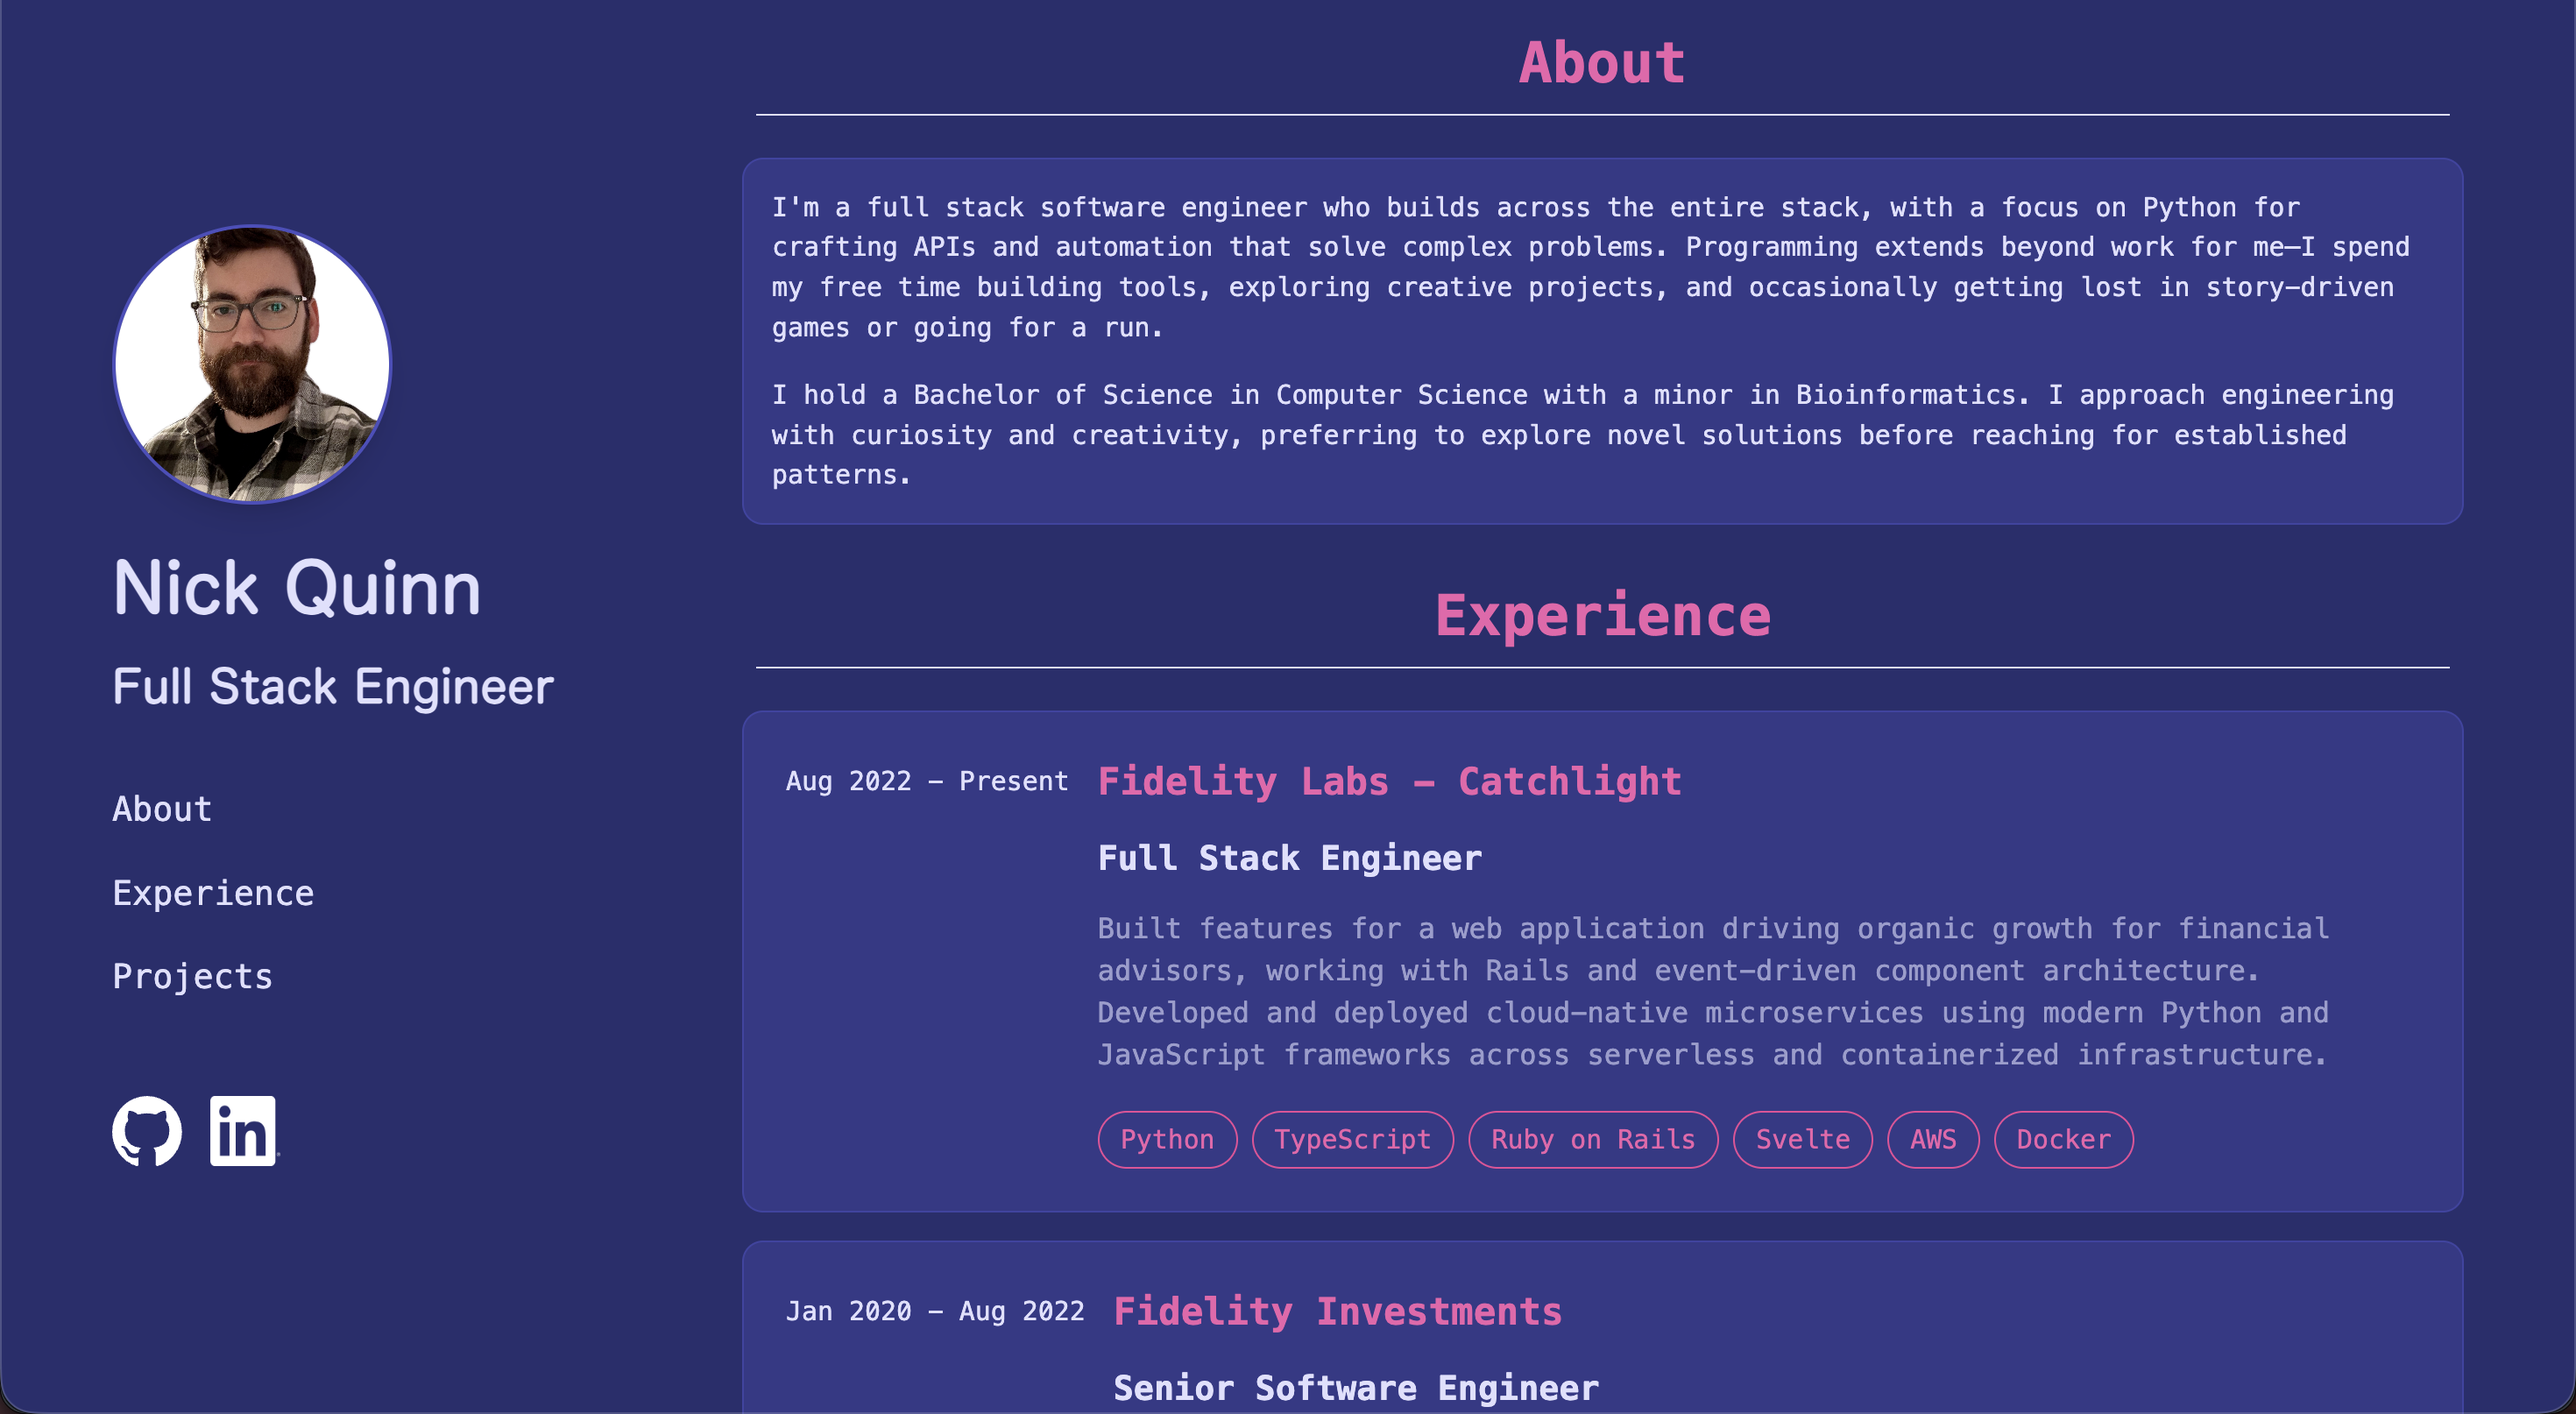
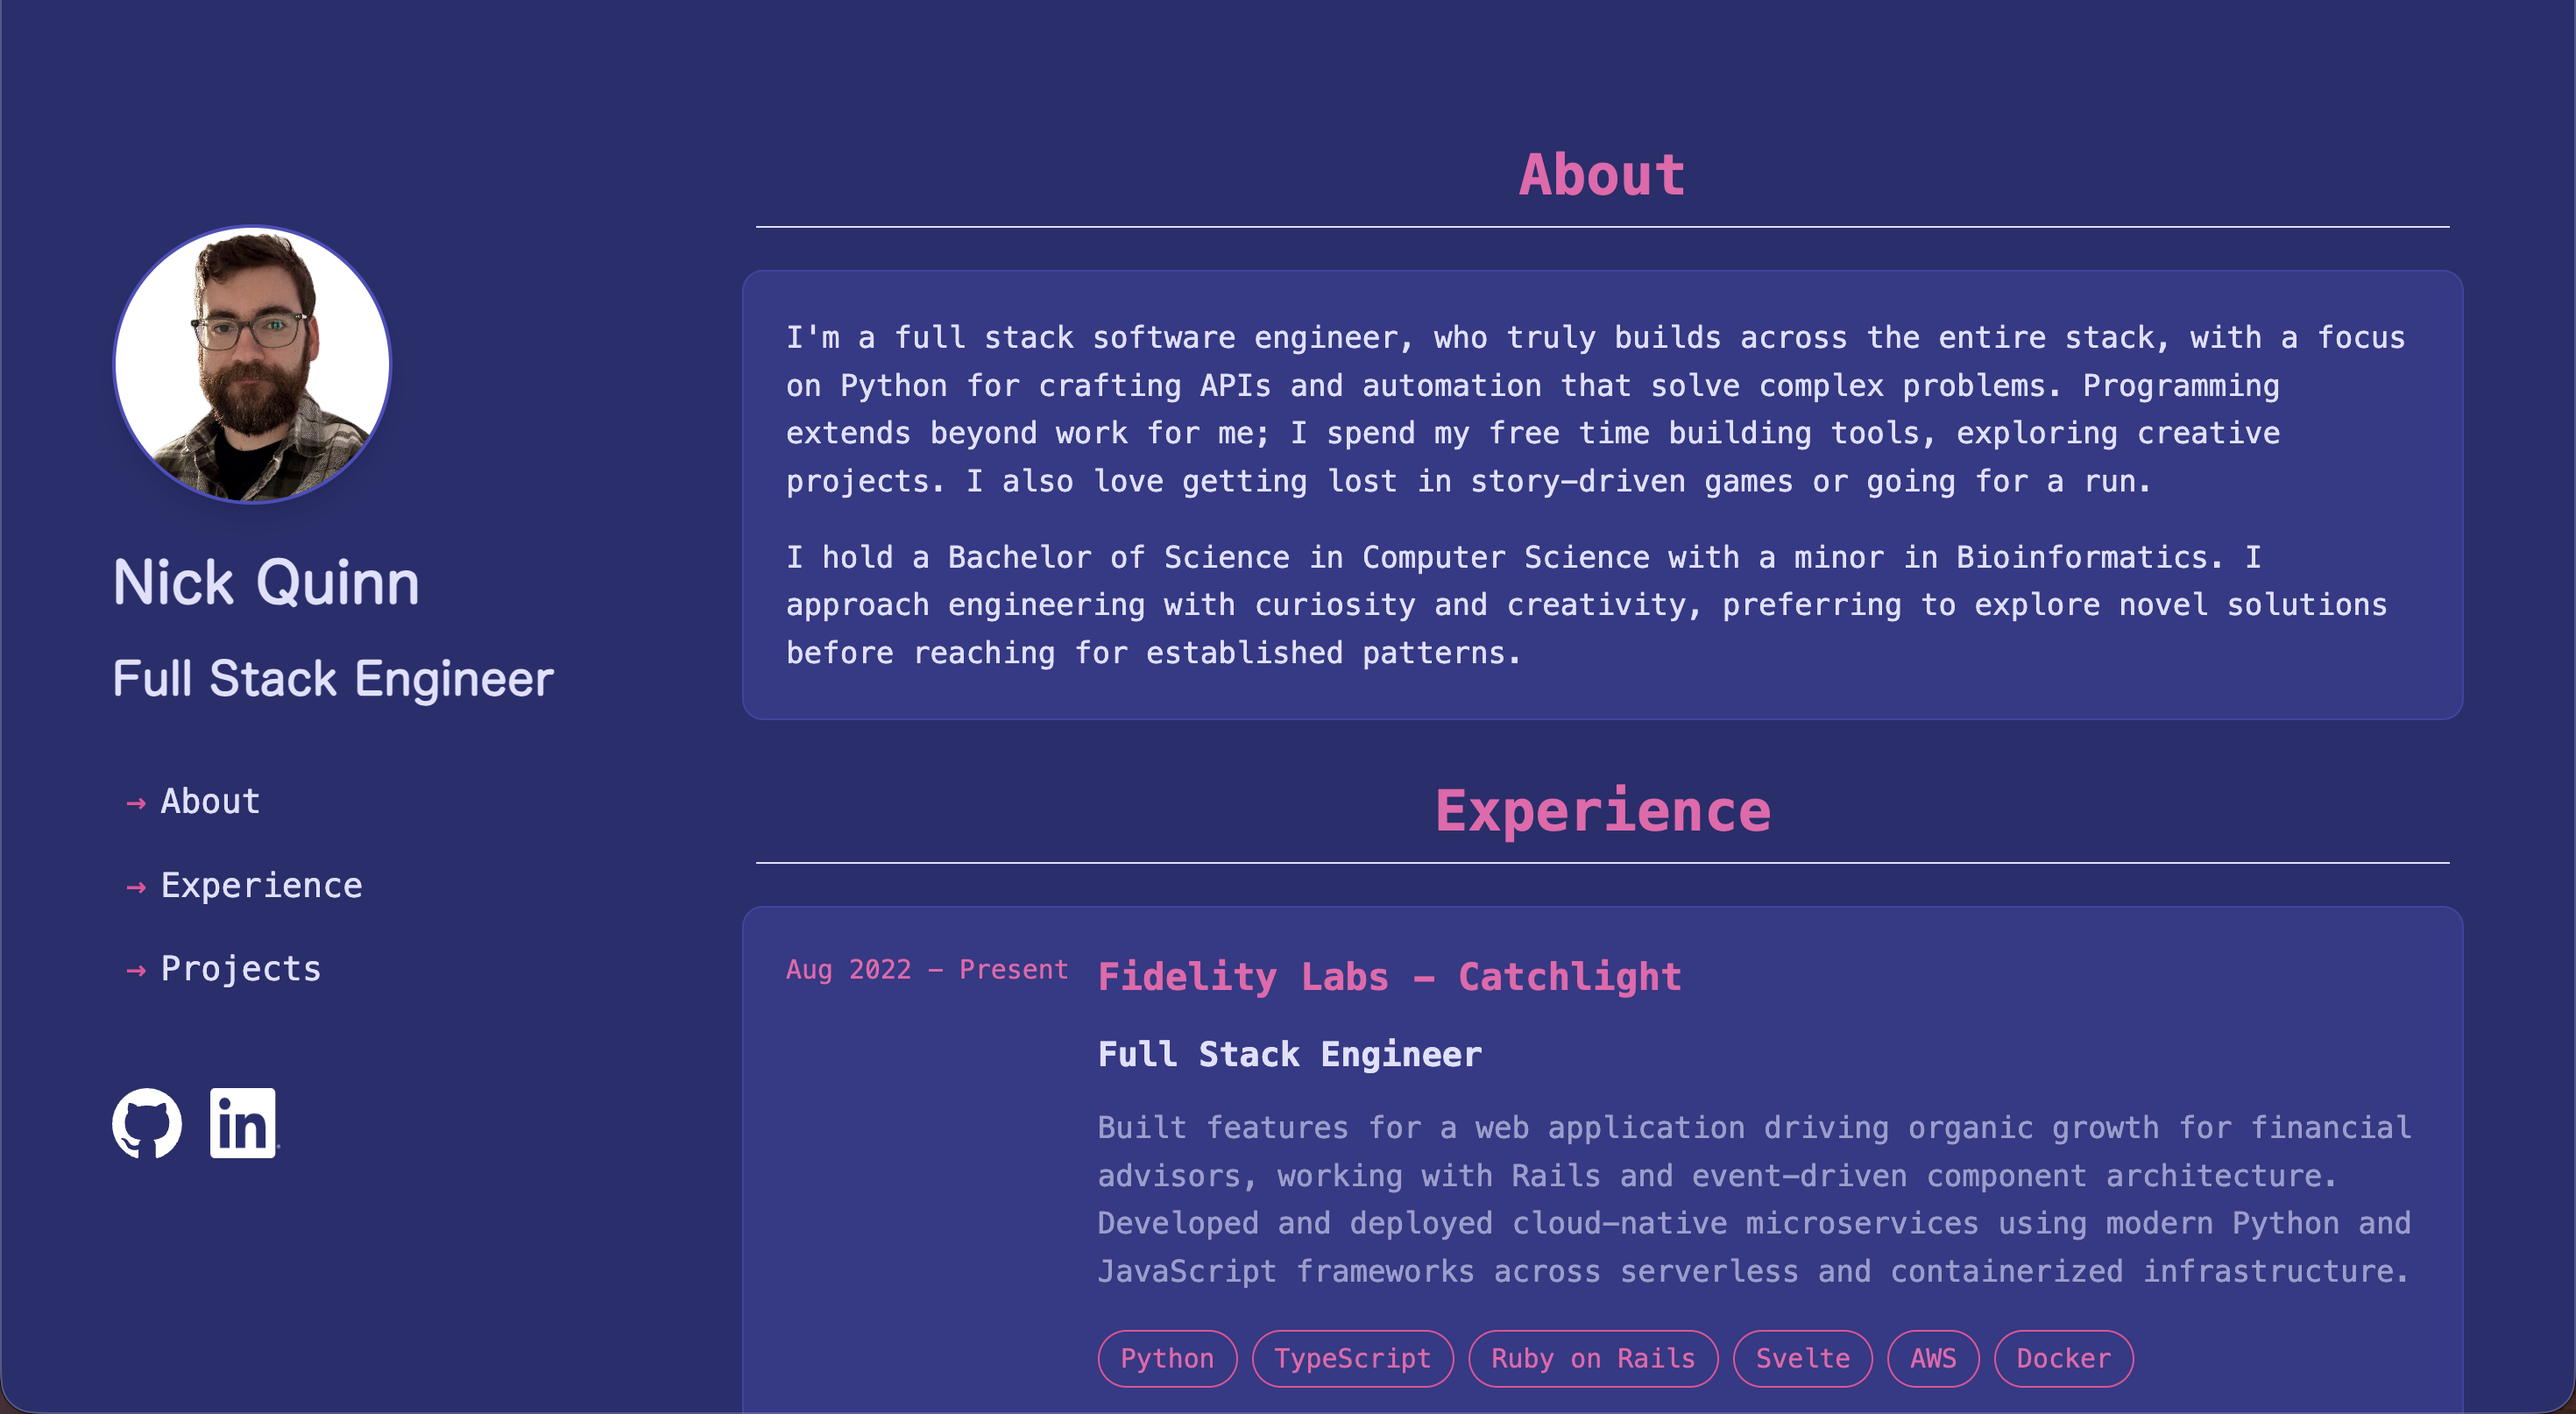
Minor text updates to about and experience

diff --git a/src/routes/+page.svelte b/src/routes/+page.svelte
@@ -85,10 +85,10 @@
       class="card preset-filled-surface-100-900 border-[1px] border-surface-200-800 w-full p-4 md:p-6 space-y-4 text-sm md:text-base align-middle place-content-center font-thin mt-4"
     >
       <p>
-        I'm a full stack software engineer who builds across the entire stack, with a focus on
+        I'm a full stack software engineer, who truly builds across the entire stack, with a focus on
         Python for crafting APIs and automation that solve complex problems. Programming extends
-        beyond work for me—I spend my free time building tools, exploring creative projects, and
-        occasionally getting lost in story-driven games or going for a run.
+        beyond work for me; I spend my free time building tools, exploring creative projects. I'm also
+		an avid DIYer at home and enjoy playing video games with my friend group.
       </p>
       <p>
         I hold a Bachelor of Science in Computer Science with a minor in Bioinformatics. I approach
